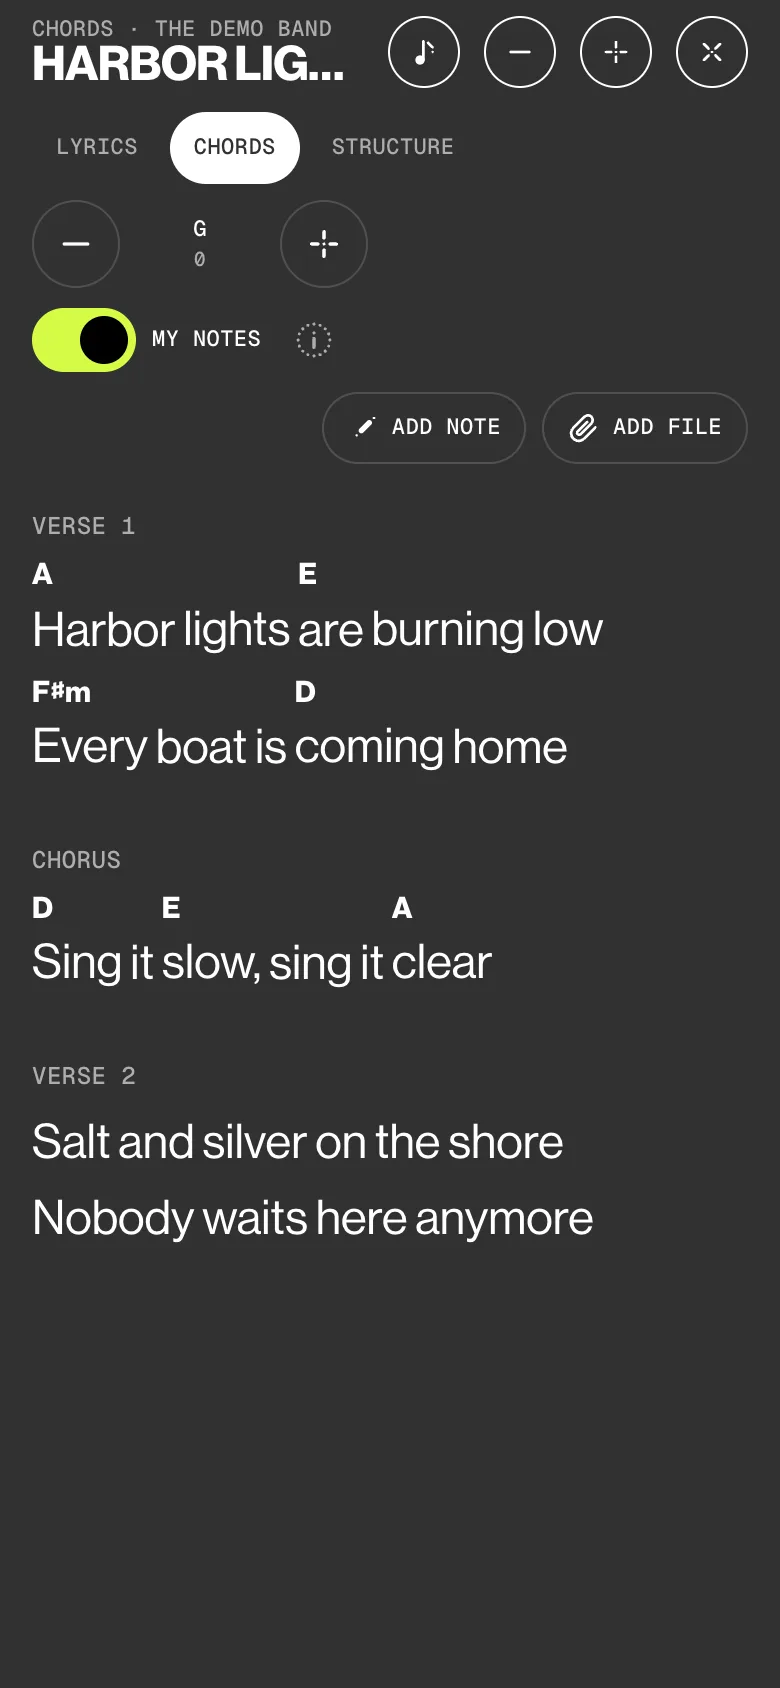
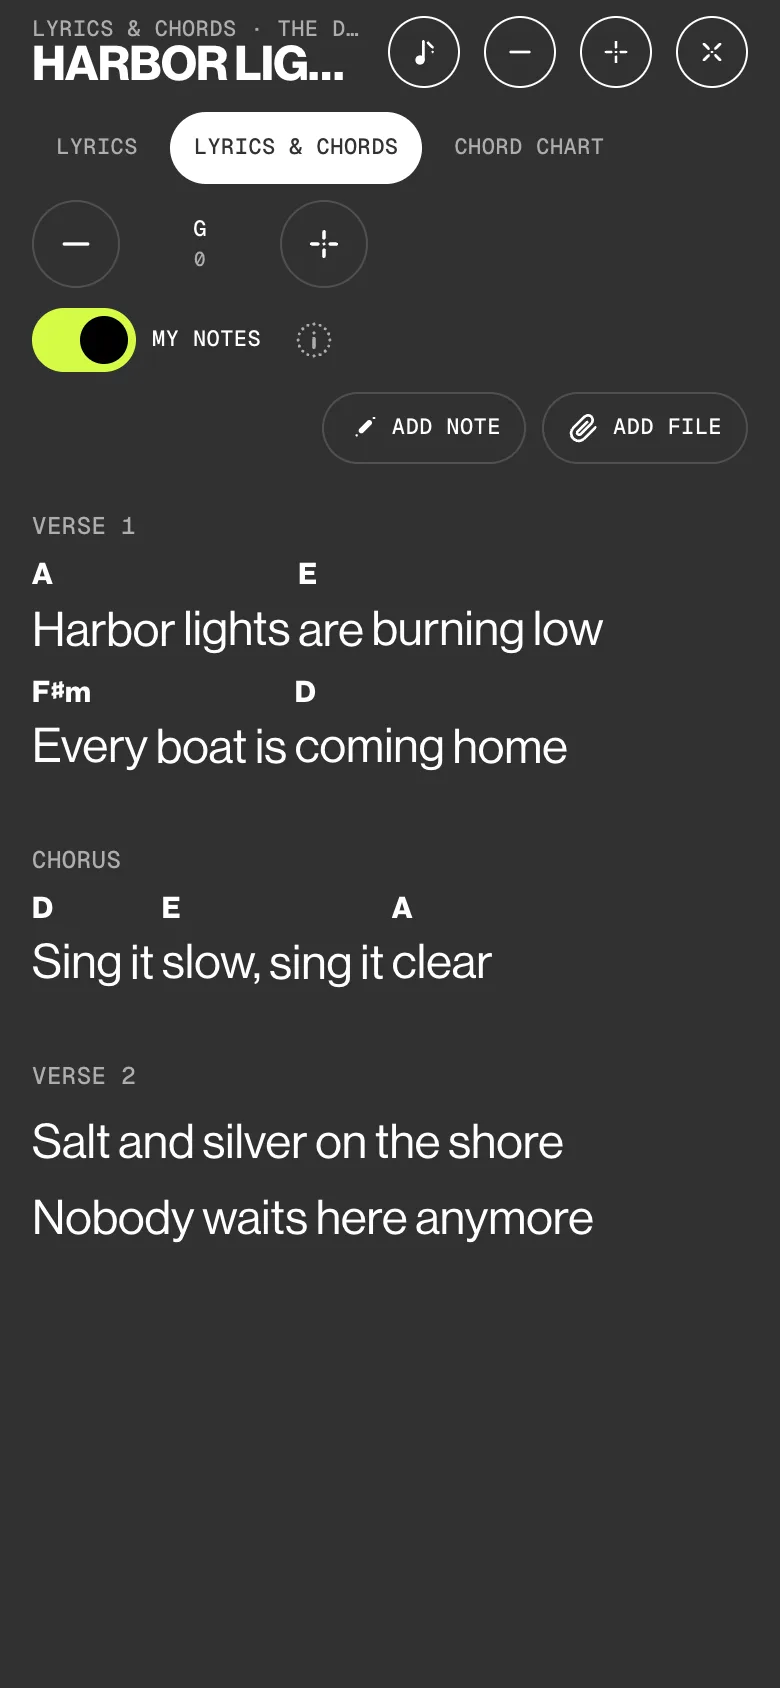
docs(academy): Song only and reader shots; capture recipes for rehearsal Live mode
capture.mjs gets a seed step (focus songs) and recipes for music-rehearsal-live
and music-song-only; music-reader now shows Lyrics & chords.

diff --git a/academy/content/shotFiles.ts b/academy/content/shotFiles.ts
@@ -20,6 +20,7 @@ export const SHOT_FILES: Record<string, ShotDevice[]> = {
   'music-rehearsal-live': ['phone', 'tablet', 'web'],
   'music-repertoire': ['phone', 'tablet', 'web', 'duoClosed', 'duoBook'],
   'music-setlist-editor': ['phone', 'tablet', 'web', 'duoClosed', 'duoBook'],
+  'music-song-only': ['phone', 'tablet', 'web'],
   'music-stage': ['phone', 'tablet', 'web', 'duoClosed', 'duoBook', 'duoLaptop'],
   'music-suggestions': ['phone', 'tablet', 'web', 'duoClosed', 'duoBook'],
   'people-band-members': ['phone', 'tablet', 'web', 'duoClosed', 'duoBook'],
